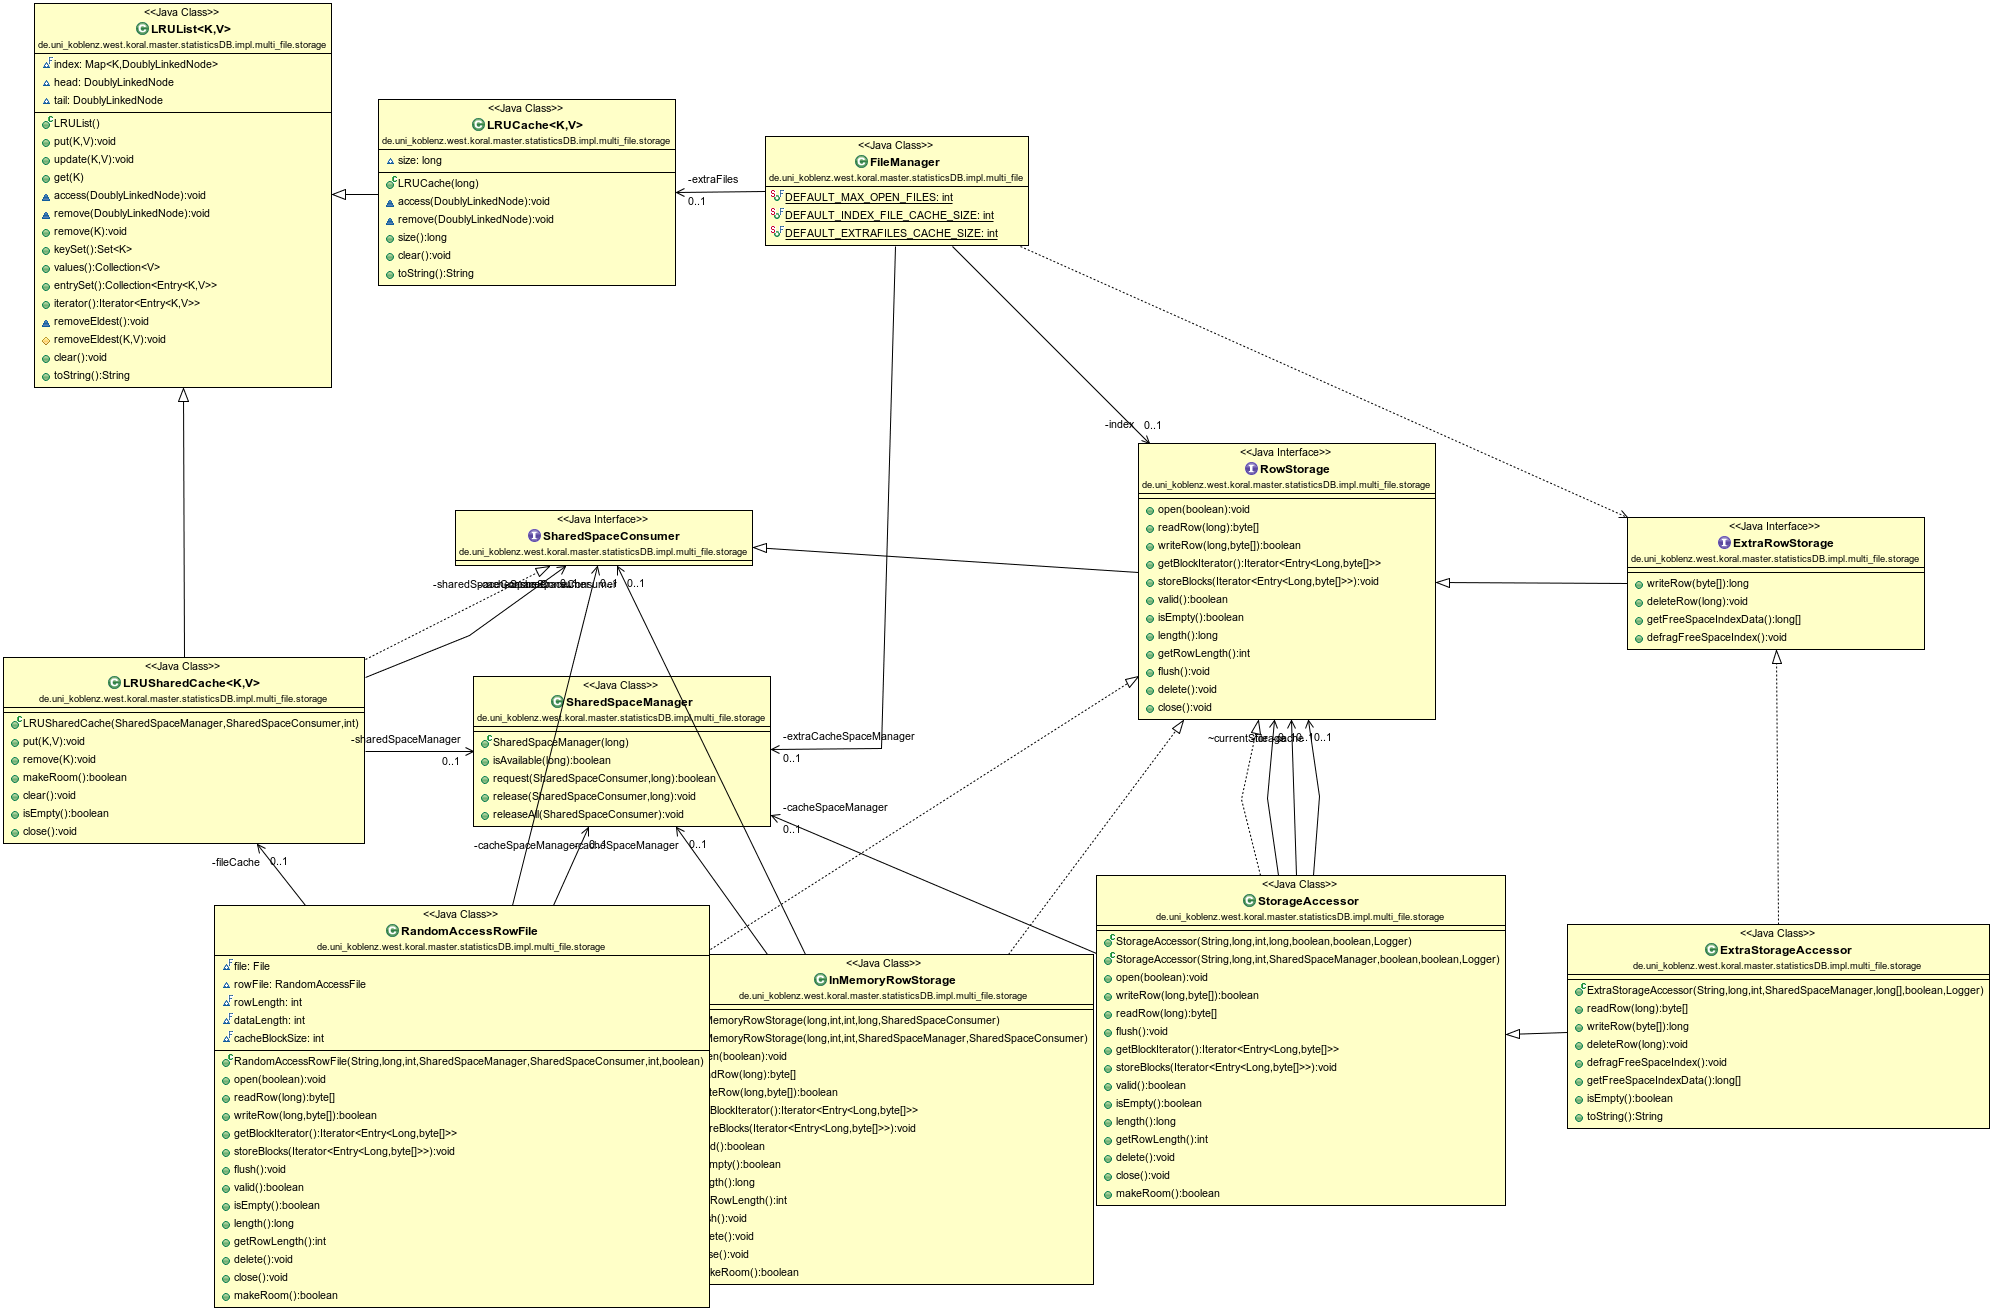
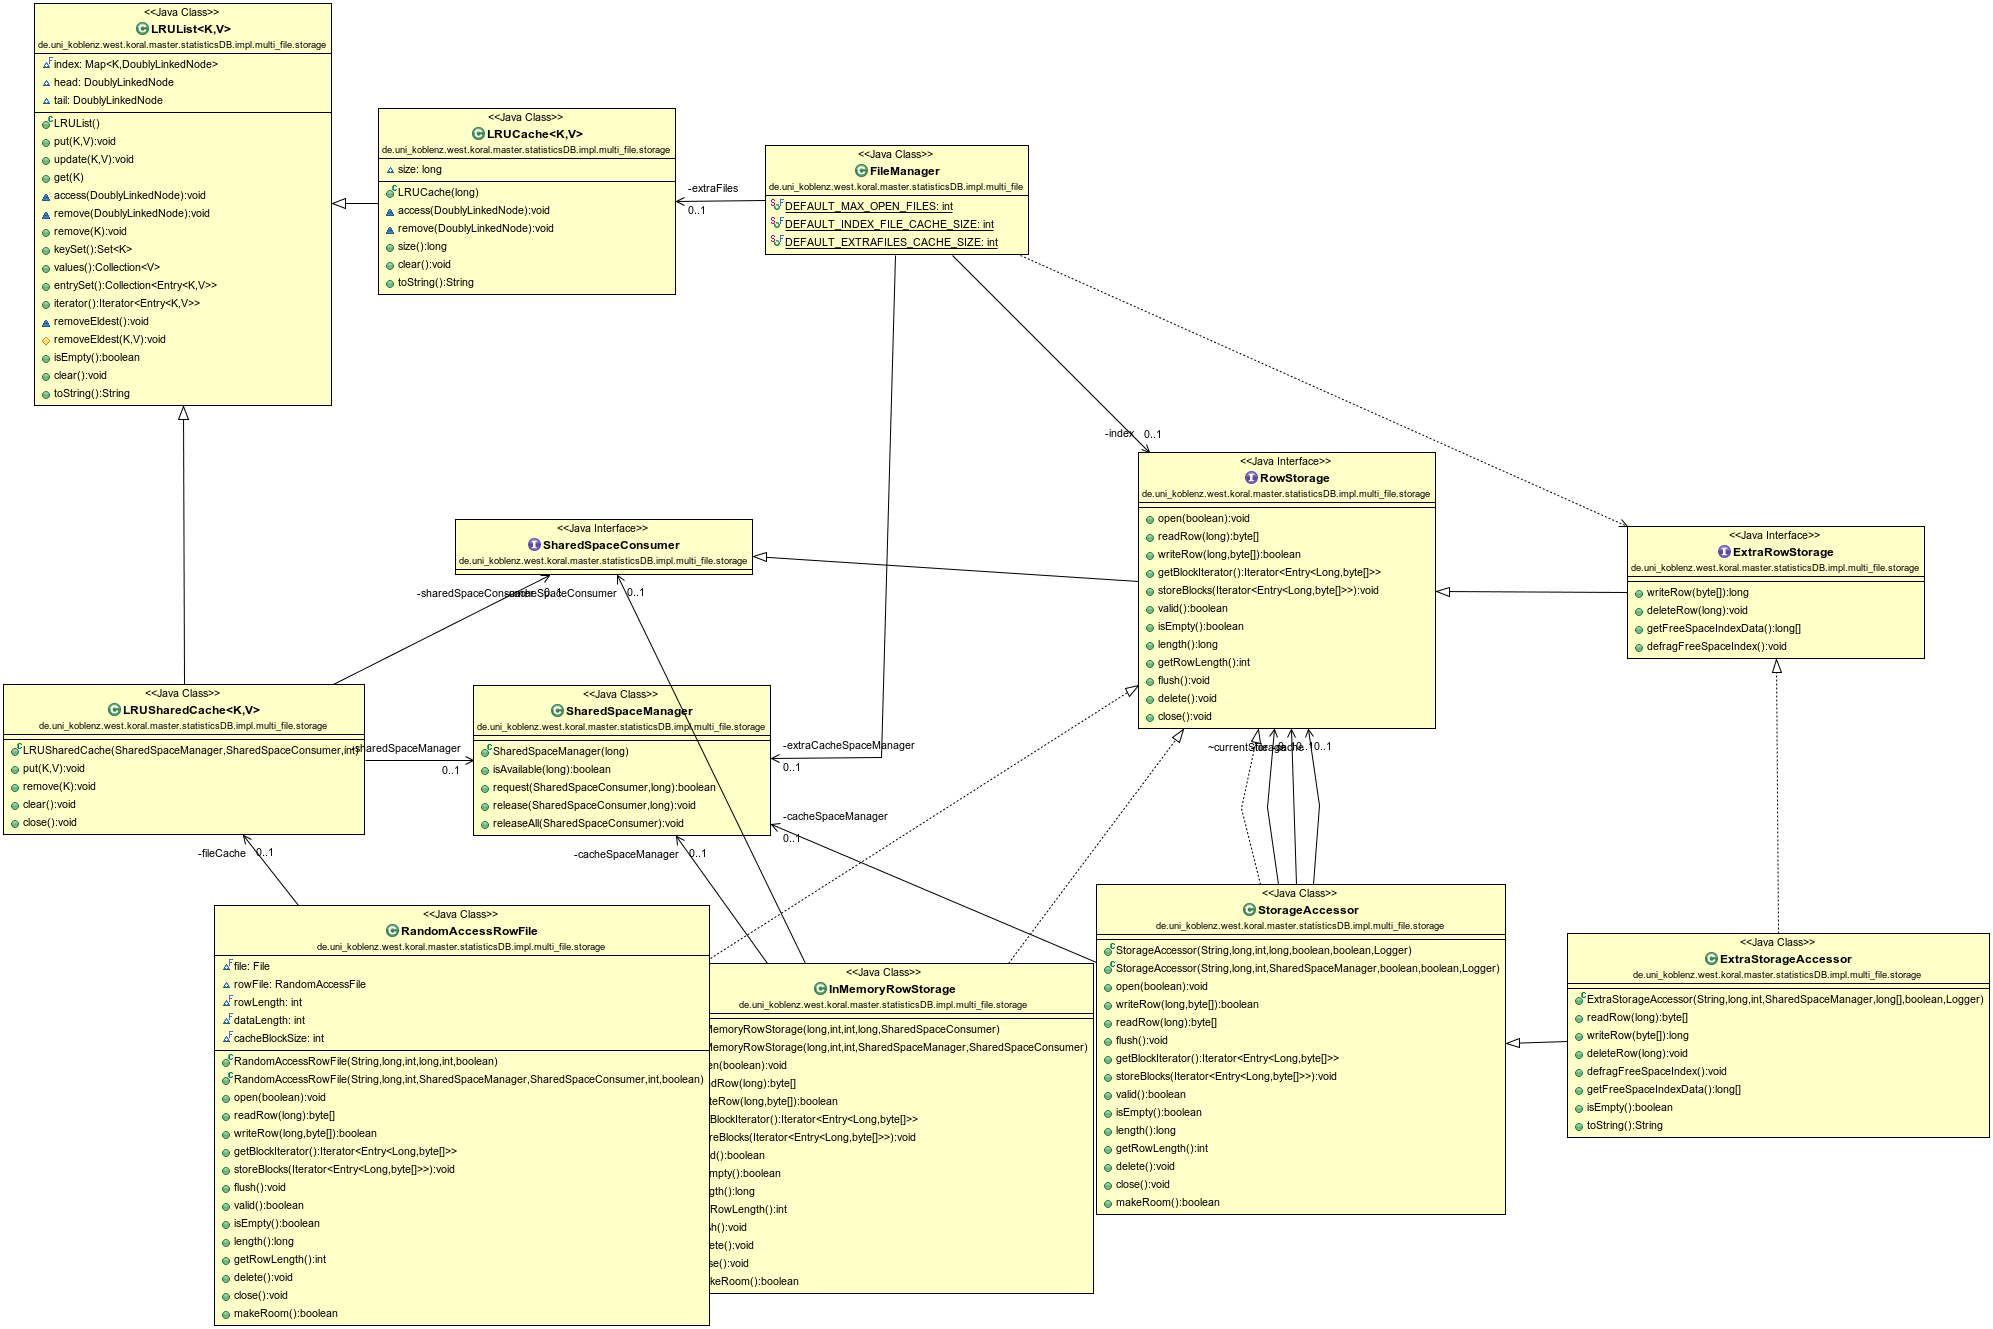
Implement parallel sharedManager and maxSize RARF caches

diff --git a/src/main/java/de/uni_koblenz/west/koral/master/statisticsDB/impl/multi_file/storage/RandomAccessRowFile.java b/src/main/java/de/uni_koblenz/west/koral/master/statisticsDB/impl/multi_file/storage/RandomAccessRowFile.java
@@ -33,7 +33,7 @@ public class RandomAccessRowFile implements RowStorage {
 	 * inserting/updating), because the LRUCache doesn't care and NullPointerExceptions are not thrown before actually
 	 * writing to file, when it is too late to find out where the null came from, in the case of a bug.
 	 */
-	private final LRUSharedCache<Long, byte[]> fileCache;
+	private final LRUList<Long, byte[]> fileCache;
 
 	private final ObjectRecycler<byte[]> blockRecycler;
 
@@ -45,16 +45,11 @@ public class RandomAccessRowFile implements RowStorage {
 
 	private final long fileId;
 
-	private final SharedSpaceManager cacheSpaceManager;
-
-	private final SharedSpaceConsumer cacheSpaceConsumer;
-
-	public RandomAccessRowFile(String storageFilePath, long fileId, int rowLength, SharedSpaceManager cacheSpaceManager,
-			SharedSpaceConsumer cacheSpaceConsumer, int blockSize, boolean recycleBlocks) {
+	private RandomAccessRowFile(String storageFilePath, long fileId, int rowLength, long maxCacheSize,
+			SharedSpaceManager cacheSpaceManager, SharedSpaceConsumer cacheSpaceConsumer, int blockSize,
+			boolean recycleBlocks) {
 		this.fileId = fileId;
 		this.rowLength = rowLength;
-		this.cacheSpaceManager = cacheSpaceManager;
-		this.cacheSpaceConsumer = cacheSpaceConsumer;
 		if (blockSize >= rowLength) {
 			// Default case: At least one row fits into a block
 			rowsAsBlocks = false;
@@ -79,33 +74,55 @@ public class RandomAccessRowFile implements RowStorage {
 		file = new File(storageFilePath);
 		open(true);
 		if (cacheSpaceManager != null) {
+			fileCache = new LRUSharedCache<Long, byte[]>(cacheSpaceManager, cacheSpaceConsumer,
+					(ESTIMATED_SPACE_PER_LRUCACHE_ENTRY + cacheBlockSize)) {
+				@Override
+				protected void removeEldest(Long blockId, byte[] block) {
+					onRemoveEldest(blockId, block);
+					// Remove from cache
+					super.removeEldest(blockId, block);
+				}
+			};
+		} else if (maxCacheSize > 0) {
 			// Capacity is calcuated by dividing the available space by estimated space per
 			// entry, blockSize is the
 			// amount of bytes used for the values in the cache.
-//			long maxCacheEntries = maxCacheSize / (ESTIMATED_SPACE_PER_LRUCACHE_ENTRY + cacheBlockSize);
-			int entrySize = Long.BYTES + cacheBlockSize;
-			fileCache = new LRUSharedCache<Long, byte[]>(cacheSpaceManager, cacheSpaceConsumer, entrySize) {
-
+			long maxCacheEntries = maxCacheSize / (ESTIMATED_SPACE_PER_LRUCACHE_ENTRY + cacheBlockSize);
+			fileCache = new LRUCache<Long, byte[]>(maxCacheEntries) {
 				@Override
 				protected void removeEldest(Long blockId, byte[] block) {
-					if (block[dataLength] == 1) {
-						// Persist entry before removing
-						try {
-							writeBlockToFile(blockId, block);
-						} catch (IOException e) {
-							throw new RuntimeException(e);
-						}
-						block[dataLength] = 0;
-					}
+					onRemoveEldest(blockId, block);
 					// Remove from cache
 					super.removeEldest(blockId, block);
-					if (RandomAccessRowFile.this.recycleBlocks) {
-						blockRecycler.dump(block);
-					}
 				}
 			};
 		} else {
 			fileCache = null;
+		}
+	}
+
+	public RandomAccessRowFile(String storageFilePath, long fileId, int rowLength, long maxCacheSize, int blockSize,
+			boolean recycleBlocks) {
+		this(storageFilePath, fileId, rowLength, maxCacheSize, null, null, blockSize, recycleBlocks);
+	}
+
+	public RandomAccessRowFile(String storageFilePath, long fileId, int rowLength, SharedSpaceManager cacheSpaceManager,
+			SharedSpaceConsumer cacheSpaceConsumer, int blockSize, boolean recycleBlocks) {
+		this(storageFilePath, fileId, rowLength, -1, cacheSpaceManager, cacheSpaceConsumer, blockSize, recycleBlocks);
+	}
+
+	private void onRemoveEldest(Long blockId, byte[] block) {
+		if (block[dataLength] == 1) {
+			// Persist entry before removing
+			try {
+				writeBlockToFile(blockId, block);
+			} catch (IOException e) {
+				throw new RuntimeException(e);
+			}
+			block[dataLength] = 0;
+		}
+		if (RandomAccessRowFile.this.recycleBlocks) {
+			blockRecycler.dump(block);
 		}
 	}
 
@@ -410,10 +427,11 @@ public class RandomAccessRowFile implements RowStorage {
 
 	@Override
 	public boolean makeRoom() {
-		if (fileCache == null) {
+		if ((fileCache == null) || fileCache.isEmpty()) {
 			return false;
 		}
-		return fileCache.makeRoom();
+		fileCache.removeEldest();
+		return true;
 	}
 
 }

diff --git a/src/main/java/de/uni_koblenz/west/koral/master/statisticsDB/impl/multi_file/storage/StorageAccessor.java b/src/main/java/de/uni_koblenz/west/koral/master/statisticsDB/impl/multi_file/storage/StorageAccessor.java
@@ -59,17 +59,20 @@ public class StorageAccessor implements RowStorage {
 			throw new RuntimeException("File " + storageFilePath + " does not exist");
 		}
 		// TODO: Extract cache blocksize as own parameter to CLI/config
-		file = new RandomAccessRowFile(storageFilePath, fileId, rowLength, cacheSpaceManager, this,
-				DEFAULT_CACHE_BLOCKSIZE, recycleBlocks);
-		currentStorage = file;
-		long storageLength = file.length();
 		if (cacheSpaceManager == null) {
 			// Use fixed parameter as cache size limit
-			if (storageLength < maxCacheSize) {
+			file = new RandomAccessRowFile(storageFilePath, fileId, rowLength, maxCacheSize, DEFAULT_CACHE_BLOCKSIZE,
+					recycleBlocks);
+			currentStorage = file;
+			if (file.length() < maxCacheSize) {
 				cache = new InMemoryRowStorage(fileId, rowLength, DEFAULT_CACHE_BLOCKSIZE, maxCacheSize, this);
 			}
 		} else {
-			// Use the SharedSpaceManaer as cache size limit manager
+			// Use the SharedSpaceManager as cache size limit manager
+			file = new RandomAccessRowFile(storageFilePath, fileId, rowLength, cacheSpaceManager, this,
+					DEFAULT_CACHE_BLOCKSIZE, recycleBlocks);
+			currentStorage = file;
+			long storageLength = file.length();
 			if (cacheSpaceManager.isAvailable(storageLength)) {
 				cache = new InMemoryRowStorage(fileId, rowLength, DEFAULT_CACHE_BLOCKSIZE, cacheSpaceManager, this);
 				cacheSpaceManager.request(this, storageLength);
@@ -77,7 +80,7 @@ public class StorageAccessor implements RowStorage {
 		}
 		// If the cache was created, fill it with the file contents
 		if (cache != null) {
-			if (storageLength > 0) {
+			if (file.length() > 0) {
 				if (logger != null) {
 					logger.finest("Loading existing storage with path " + storageFilePath);
 				}

diff --git a/src/main/java/de/uni_koblenz/west/koral/master/statisticsDB/impl/multi_file/storage/LRUSharedCache.java b/src/main/java/de/uni_koblenz/west/koral/master/statisticsDB/impl/multi_file/storage/LRUSharedCache.java
@@ -1,6 +1,6 @@
 package de.uni_koblenz.west.koral.master.statisticsDB.impl.multi_file.storage;
 
-public class LRUSharedCache<K, V> extends LRUList<K, V> implements SharedSpaceConsumer, AutoCloseable {
+public class LRUSharedCache<K, V> extends LRUList<K, V> implements AutoCloseable {
 
 	private final SharedSpaceManager sharedSpaceManager;
 	private final int entrySize;
@@ -16,9 +16,8 @@ public class LRUSharedCache<K, V> extends LRUList<K, V> implements SharedSpaceCo
 	@Override
 	public void put(K key, V value) {
 		if (!sharedSpaceManager.isAvailable(entrySize)) {
-			if (!makeRoom()) {
-				// Request space from sharedSpaceManager with force
-			}
+			removeEldest();
+			// TODO: Request (with force?)
 		}
 		sharedSpaceManager.request(sharedSpaceConsumer, entrySize);
 		super.put(key, value);
@@ -31,22 +30,9 @@ public class LRUSharedCache<K, V> extends LRUList<K, V> implements SharedSpaceCo
 	}
 
 	@Override
-	public boolean makeRoom() {
-		if (tail == null) {
-			return false;
-		}
-		removeEldest();
-		return true;
-	}
-
-	@Override
 	public void clear() {
 		super.clear();
 		sharedSpaceManager.releaseAll(sharedSpaceConsumer);
-	}
-
-	public boolean isEmpty() {
-		return tail == null;
 	}
 
 	@Override

diff --git a/src/main/java/de/uni_koblenz/west/koral/master/statisticsDB/impl/multi_file/storage/LRUList.java b/src/main/java/de/uni_koblenz/west/koral/master/statisticsDB/impl/multi_file/storage/LRUList.java
@@ -11,8 +11,8 @@ import java.util.Map.Entry;
 import java.util.Set;
 
 /**
- * A generic LRU list with O(1) operations and no capacity limits. Uses a
- * doubly-linked-list for access order plus an index (Map) for O(1) access.
+ * A generic LRU list with O(1) operations and no capacity limits. Uses a doubly-linked-list for access order plus an
+ * index (Map) for O(1) access.
  *
  * @author philipp
  *
@@ -94,7 +94,7 @@ public class LRUList<K, V> implements Iterable<Entry<K, V>> {
 
 	/**
 	 * Removes a node from the DoublyLinkedList only.
-	 * 
+	 *
 	 * @param node
 	 */
 	void remove(DoublyLinkedNode node) {
@@ -116,7 +116,7 @@ public class LRUList<K, V> implements Iterable<Entry<K, V>> {
 
 	/**
 	 * Removes an entry by key from the DoublyLinkedList and the index.
-	 * 
+	 *
 	 * @param key
 	 */
 	public void remove(K key) {
@@ -180,6 +180,10 @@ public class LRUList<K, V> implements Iterable<Entry<K, V>> {
 	 */
 	protected void removeEldest(K key, V value) {
 		index.remove(key);
+	}
+
+	public boolean isEmpty() {
+		return tail == null;
 	}
 
 	public void clear() {
